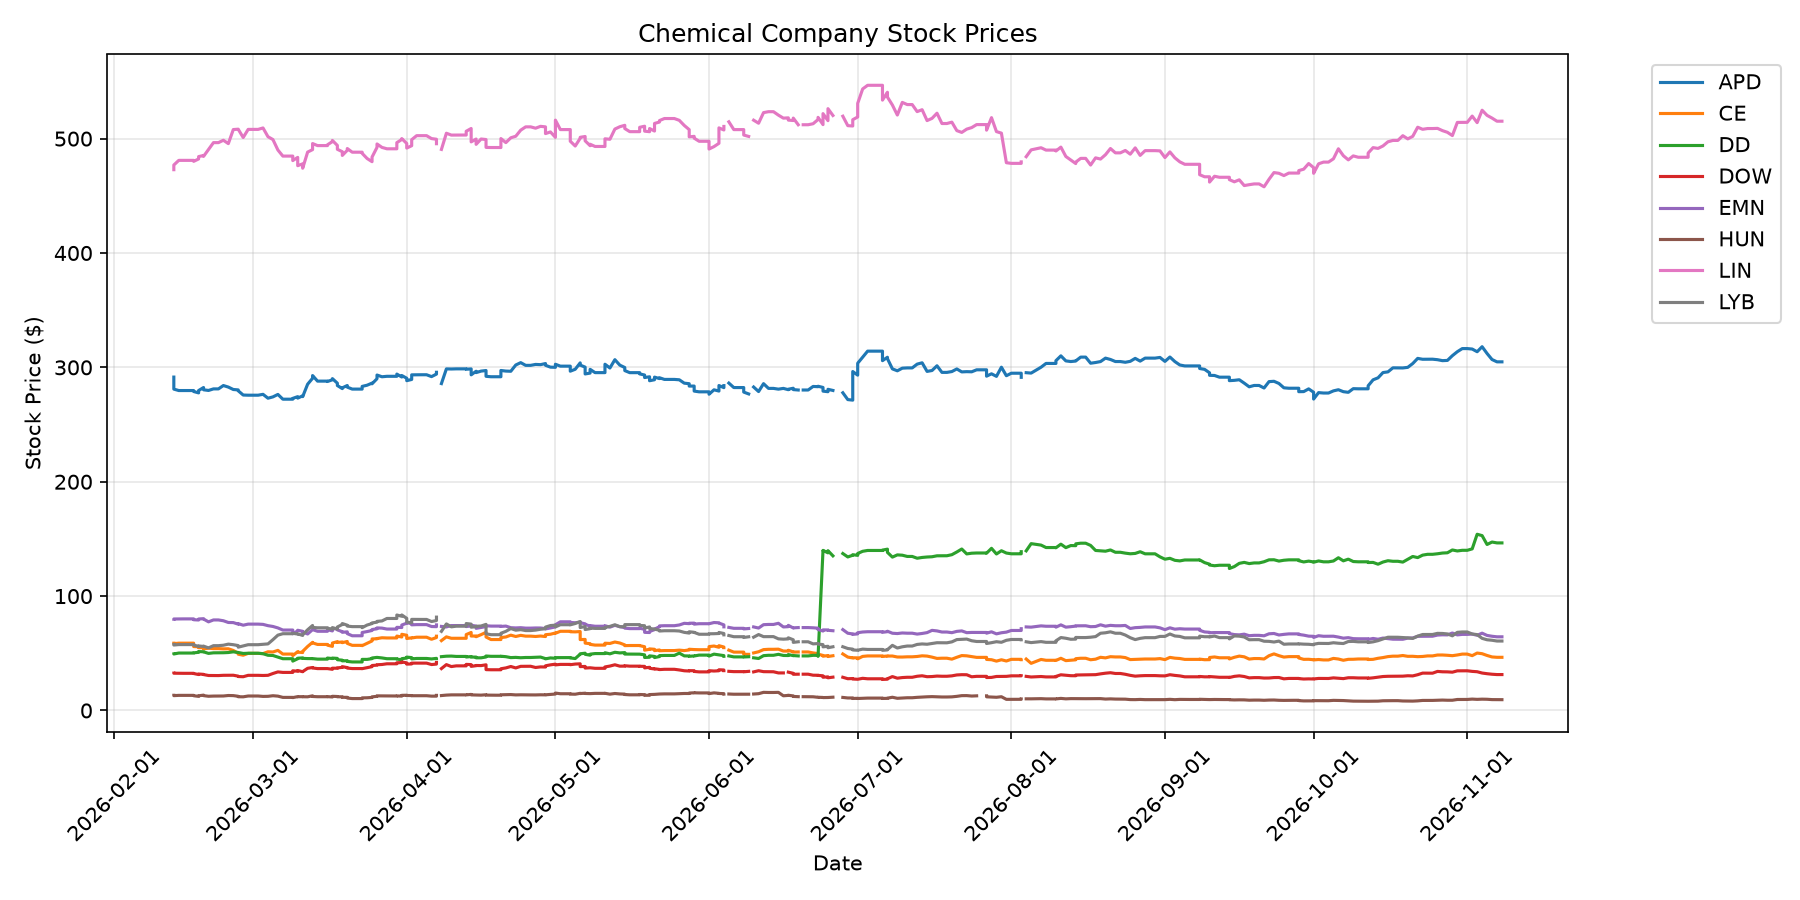
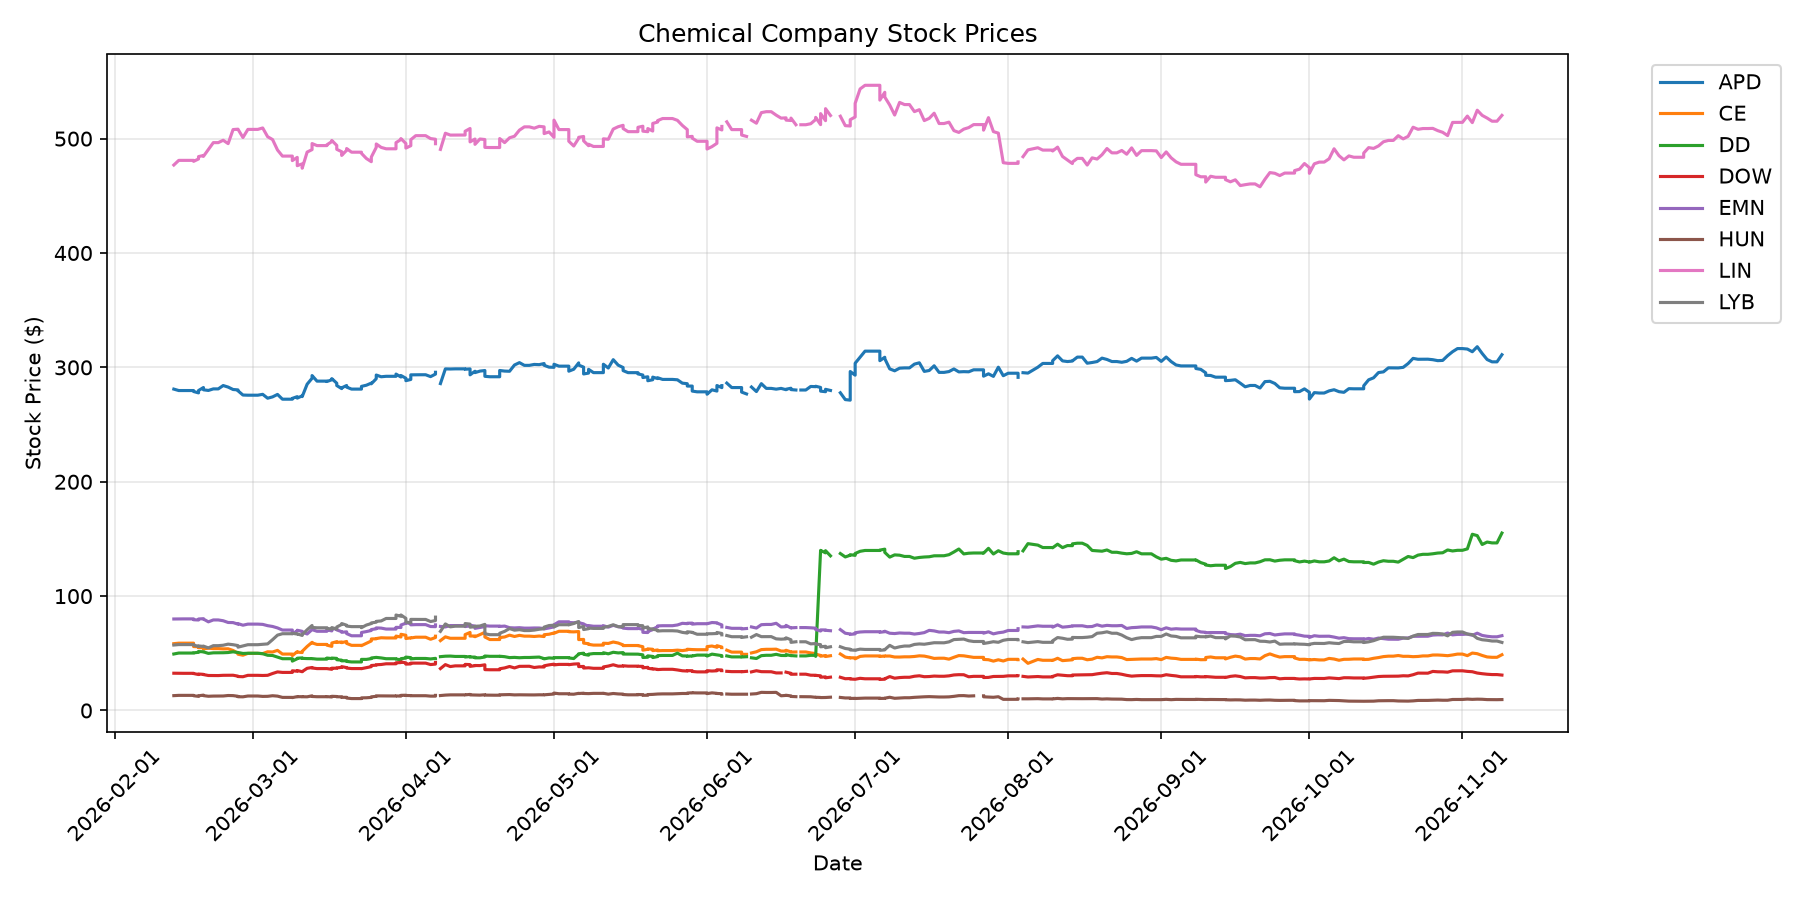
Daily price update: 2026-11-09

diff --git a/README.md b/README.md
@@ -2,29 +2,29 @@
 
 Automated daily tracking of chemical commodity prices and chemical company stocks.
 
-## Latest Prices (Updated: 2026-11-08)
+## Latest Prices (Updated: 2026-11-09)
 
 ### Energy Commodities
 
 | Commodity | Price | Change (24h) | Unit |
 |-----------|-------|--------------|------|
-| WTI Crude Oil | $90.83 | +0.00 (+0.00%) | $/barrel |
-| Brent Crude Oil | $98.32 | +0.00 (+0.00%) | $/barrel |
-| Natural Gas | $3.00 | +0.00 (+0.00%) | $/MMBtu |
-| Heating Oil | $4.33 | +0.00 (+0.00%) | $/gallon |
+| WTI Crude Oil | $86.53 | +0.00 (+0.00%) | $/barrel |
+| Brent Crude Oil | $92.47 | +0.00 (+0.00%) | $/barrel |
+| Natural Gas | $3.20 | +0.00 (+0.00%) | $/MMBtu |
+| Heating Oil | $4.20 | +0.00 (+0.00%) | $/gallon |
 
 ### Chemical Company Stocks
 
 | Company | Ticker | Price | Change (24h) |
 |---------|--------|-------|--------------|
-| Dow Inc. | DOW | $31.40 | -0.58 (-1.81%) |
-| LyondellBasell | LYB | $60.72 | -0.91 (-1.48%) |
-| DuPont | DD | $146.52 | +1.59 (+1.10%) |
-| Air Products | APD | $304.84 | -4.65 (-1.50%) |
-| Linde | LIN | $515.25 | -5.98 (-1.15%) |
-| Eastman Chemical | EMN | $64.41 | -1.30 (-1.98%) |
-| Celanese | CE | $46.49 | -1.35 (-2.82%) |
-| Huntsman | HUN | $9.45 | -0.34 (-3.47%) |
+| Dow Inc. | DOW | $30.96 | -0.44 (-1.40%) |
+| LyondellBasell | LYB | $59.50 | -1.22 (-2.01%) |
+| DuPont | DD | $155.14 | +8.62 (+5.88%) |
+| Air Products | APD | $311.08 | +6.24 (+2.05%) |
+| Linde | LIN | $520.33 | +5.08 (+0.99%) |
+| Eastman Chemical | EMN | $65.39 | +0.98 (+1.52%) |
+| Celanese | CE | $48.75 | +2.26 (+4.86%) |
+| Huntsman | HUN | $9.54 | +0.09 (+0.95%) |
 
 ## Data Sources
 

diff --git a/logs/update_log.md b/logs/update_log.md
@@ -427,3 +427,4 @@ Daily updates to the chemical engineering data repository.
 - **2026-11-06 20:08:23**: Updated 4 energy prices, 8 stocks, 0 FRED series
 - **2026-11-07 18:23:29**: Updated 4 energy prices, 8 stocks, 0 FRED series
 - **2026-11-08 18:34:10**: Updated 4 energy prices, 8 stocks, 0 FRED series
+- **2026-11-09 23:13:01**: Updated 4 energy prices, 8 stocks, 0 FRED series
